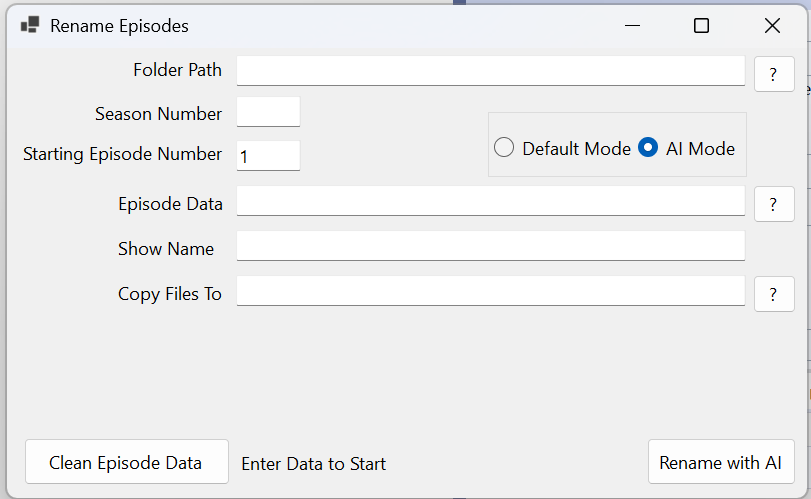
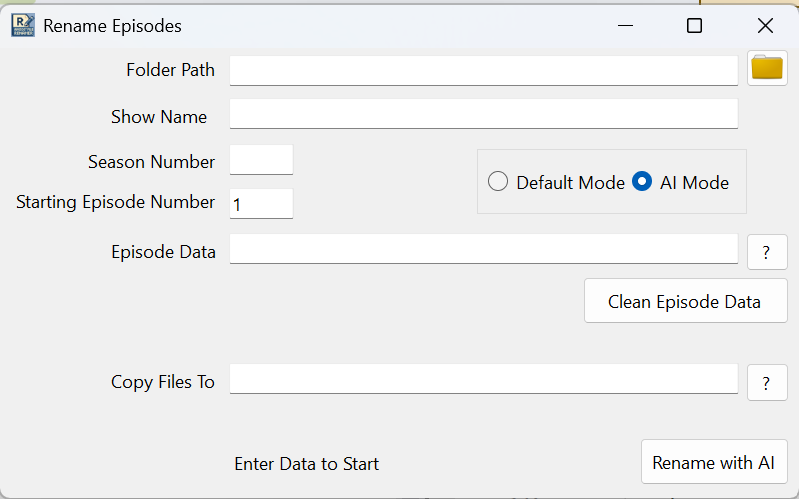
Add Undo Rename feature and improve AI mode
Enhanced the file renaming tool with an "Undo Rename" feature:
- Updated `FileRenamer.cs` to track full file paths and added `UndoLastRename` for reversing renames.
- Modified `Form1.Designer.cs` and `Form1.cs` to include a new "Undo Rename" button, initially hidden and shown after successful renames.
- Improved logging and error handling for rename and undo operations.

Introduced "AI Mode" for automatic episode title retrieval:
- Updated README.md with details and caveats for AI mode.
- Added screenshots (`renep-ai.png`, `renep-ai-undo.png`) to showcase the feature.

Other changes:
- Updated `.markdownlint.json` configuration.
- Improved UI and documentation for better usability.
- Added new screenshots (`renep-default-undo.png`) to reflect changes.

diff --git a/RenameEpisodeFiles/FileRenamer.cs b/RenameEpisodeFiles/FileRenamer.cs
@@ -7,7 +7,7 @@ using System.Text.RegularExpressions;
 
 namespace RenameEpisodeFiles
 {
-    public record FileRenameRecord(string OriginalFileName, string NewFileName, DateTime RenameTime);
+    public record FileRenameRecord(string OriginalFileName, string NewFileName, string OriginalFullPath, string NewFullPath, DateTime RenameTime);
 
     internal class FileRenamer
     {
@@ -59,7 +59,7 @@ namespace RenameEpisodeFiles
                 string newFilePath = Path.Combine(folderPath, newFileName);
 
                 File.Move(file.FullName, newFilePath);
-                renameHistory.Add(new FileRenameRecord(file.Name, newFileName, DateTime.Now));
+                renameHistory.Add(new FileRenameRecord(file.Name, newFileName, file.FullName, newFilePath, DateTime.Now));
                 lastEpisode = episodeIndex + 1;
             }
 
@@ -145,7 +145,7 @@ namespace RenameEpisodeFiles
                     try
                     {
                         File.Move(file.FullName, newFilePath);
-                        renameHistory.Add(new FileRenameRecord(file.Name, newFileName, DateTime.Now));
+                        renameHistory.Add(new FileRenameRecord(file.Name, newFileName, file.FullName, newFilePath, DateTime.Now));
                     }
                     catch (Exception ex)
                     {
@@ -163,6 +163,86 @@ namespace RenameEpisodeFiles
             if (renameHistory.Any())
             {
                 SaveRenameHistory(renameHistory);
+            }
+        }
+
+        public static bool UndoLastRename()
+        {
+            try
+            {
+                // Ensure history folder exists
+                if (!Directory.Exists(HistoryFolder))
+                {
+                    Program.Logger.LogInformation("No rename history found to undo");
+                    return false;
+                }
+
+                // Get the latest history file
+                var historyFiles = Directory.GetFiles(HistoryFolder, "rename_history_*.json")
+                    .OrderByDescending(f => f)
+                    .ToList();
+
+                if (!historyFiles.Any())
+                {
+                    Program.Logger.LogInformation("No rename history files found to undo");
+                    return false;
+                }
+
+                var latestHistoryFile = historyFiles.First();
+                var jsonString = File.ReadAllText(latestHistoryFile);
+                var renameHistory = JsonSerializer.Deserialize<List<FileRenameRecord>>(jsonString);
+
+                if (renameHistory == null || !renameHistory.Any())
+                {
+                    Program.Logger.LogInformation("Empty rename history in file");
+                    return false;
+                }
+
+                // Prepare reverse rename operations using full paths
+                var filesToRename = new List<FileInfo>();
+                var originalNames = new List<string>();
+                var originalPaths = new List<string>();
+
+                foreach (var record in renameHistory)
+                {
+                    if (File.Exists(record.NewFullPath))
+                    {
+                        filesToRename.Add(new FileInfo(record.NewFullPath));
+                        originalNames.Add(Path.GetFileName(record.OriginalFullPath));
+                        originalPaths.Add(record.OriginalFullPath);
+                    }
+                }
+
+                if (!filesToRename.Any())
+                {
+                    Program.Logger.LogInformation("No files found to undo rename");
+                    return false;
+                }
+
+                // Actually move files back to their original full paths
+                for (int i = 0; i < filesToRename.Count; i++)
+                {
+                    var file = filesToRename[i];
+                    var originalPath = originalPaths[i];
+                    try
+                    {
+                        File.Move(file.FullName, originalPath);
+                    }
+                    catch (Exception ex)
+                    {
+                        Program.Logger.LogError(ex, $"Error undoing rename for {file.FullName}");
+                    }
+                }
+
+                // Delete the history file after successful undo
+                File.Delete(latestHistoryFile);
+                Program.Logger.LogInformation($"Successfully undid renames from {latestHistoryFile}");
+                return true;
+            }
+            catch (Exception ex)
+            {
+                Program.Logger.LogError(ex, "Error while trying to undo rename");
+                return false;
             }
         }
 

diff --git a/RenameEpisodeFiles/Form1.cs b/RenameEpisodeFiles/Form1.cs
@@ -1,3 +1,4 @@
+using Microsoft.Extensions.Logging;
 using System.Windows.Forms;
 using static System.Windows.Forms.VisualStyles.VisualStyleElement;
 
@@ -21,6 +22,9 @@ namespace RenameEpisodeFiles
             {
                 ModeGroup.Visible = true;
             }
+            
+            // Initially hide the undo button
+            btnUndo.Visible = false;
         }
 
         private async void btnRename_ClickAsync(object sender, EventArgs e)
@@ -67,6 +71,9 @@ namespace RenameEpisodeFiles
 
                 int lastEpisode = FileRenamer.RenameEpisodes(folderPath, showName, seasonNumber, episodeNumber, dataPath);
 
+                // Show undo button after successful rename
+                btnUndo.Visible = true;
+
                 // copy the files over to the destination after the rename
                 // but only if the field is populated
                 if (!string.IsNullOrEmpty(txtCopyFilesTo.Text))
@@ -106,12 +113,40 @@ namespace RenameEpisodeFiles
 
                 btnRename.Enabled = false; // Disable button to prevent multiple clicks
                 progressRename.Visible = true; // Show progress bar
+                
                 // Call the AI renaming method
                 await FileRenamer.RenameEpisodesWithAI(folderPath, showName);
+                
                 progressRename.Visible = false; // Hide progress bar after operation
-                btnRename.Enabled = true; // Re-enable button after operation;
+                btnRename.Enabled = true; // Re-enable button after operation
+                btnUndo.Visible = true; // Show undo button after successful rename
             }
+        }
 
+        private void btnUndo_Click(object sender, EventArgs e)
+        {
+            lblErr.Text = "";
+            try
+            {
+                btnUndo.Enabled = false;
+                if (FileRenamer.UndoLastRename())
+                {
+                    btnUndo.Visible = false;
+                }
+                else
+                {
+                    lblErr.Text = "No rename operation to undo";
+                }
+            }
+            catch (Exception ex)
+            {
+                lblErr.Text = "Error while undoing rename";
+                Program.Logger.LogError(ex, "Error in undo operation");
+            }
+            finally
+            {
+                btnUndo.Enabled = true;
+            }
         }
 
         private void btnCleanEpisodeData_Click(object sender, EventArgs e)

diff --git a/RenameEpisodeFiles/Form1.Designer.cs b/RenameEpisodeFiles/Form1.Designer.cs
@@ -53,6 +53,7 @@
             radioModeAI = new RadioButton();
             radioModeDefault = new RadioButton();
             progressRename = new ProgressBar();
+            btnUndo = new Button();
             ModeGroup.SuspendLayout();
             SuspendLayout();
             // 
@@ -183,7 +184,6 @@
             btnFindFolder.Name = "btnFindFolder";
             btnFindFolder.Size = new Size(43, 38);
             btnFindFolder.TabIndex = 12;
-            btnFindFolder.Text = "?";
             btnFindFolder.UseVisualStyleBackColor = true;
             btnFindFolder.Click += btnFindFolder_Click;
             // 
@@ -274,12 +274,25 @@
             progressRename.TabIndex = 18;
             progressRename.Visible = false;
             // 
+            // btnUndo
+            // 
+            btnUndo.Location = new Point(24, 390);
+            btnUndo.Name = "btnUndo";
+            btnUndo.Size = new Size(132, 47);
+            btnUndo.TabIndex = 19;
+            btnUndo.Text = "Undo Rename";
+            btnUndo.TextAlign = ContentAlignment.MiddleLeft;
+            btnUndo.UseVisualStyleBackColor = true;
+            btnUndo.Visible = false;
+            btnUndo.Click += btnUndo_Click;
+            // 
             // Form1
             // 
             AllowDrop = true;
             AutoScaleDimensions = new SizeF(10F, 25F);
             AutoScaleMode = AutoScaleMode.Font;
             ClientSize = new Size(800, 450);
+            Controls.Add(btnUndo);
             Controls.Add(progressRename);
             Controls.Add(ModeGroup);
             Controls.Add(button1);
@@ -335,5 +348,6 @@
         private RadioButton radioModeDefault;
         private RadioButton radioModeAI;
         private ProgressBar progressRename;
+        private Button btnUndo;
     }
 }

diff --git a/README.md b/README.md
@@ -1,6 +1,6 @@
 # Ansos' Episode File Renamer
 
-This tools renames batches of files for a specific TV show, based on data from [TheTVDB.com](https://www.thetvdb.com/), including the episode title. 
+This tools renames batches of files for a specific TV show, based on data from [TheTVDB.com](https://www.thetvdb.com/), including the episode title.
 
 It is specifically designed for users of tools like Plex or Embi who are making backups of TV shows from DVDs or Blu-Rays.
 
@@ -20,20 +20,20 @@ It is specifically designed for users of tools like Plex or Embi who are making 
 
 ### Caveats
 
-- Paths should not be wrapped in quotes
+- Paths should **not** be wrapped in quotes
 - It assumes the Folder Path **ONLY** has episodes in it, so be aware of that
   - It orders the files by creation timestamp and does its thing
-- No real safety nets
-  - Renames cannot be automatically undone
-  - Overwrites any existing filenames
+- Overwrites any existing filenames
   
 ### Renaming
 
 - Click the 'Rename Files' button to fire it off
   - Files will be renamed in the format `<Show Name>.S<Season Number>E<Episode Number>.<Episode Title [from Episode Data]>.<Original File Extension>`
   - for example: `Star Trek - Deep Space Nine.S03E11.Past Tense, Part I.mkv`
+- The 'Undo Rename' button will revert the renames if a mistake was made. It will appear once you have renamed files.![Screenshot of Rename Episodes app with Undo Rename shown](renep-default-undo.png)
 
 ## AI Mode
+
 AI Mode is a experimental mode, hidden by default, that uses the season and episode number in a filename to automatically retrieve episode titles from theTVDB.com.
 ![Screenshot of Rename Episodes app in AI mode](renep-ai.png)
 
@@ -55,15 +55,14 @@ AI Mode is a experimental mode, hidden by default, that uses the season and epis
 - Folder Path - folder where the files are now. Use the '?' button to select from a dialog.
 - Show Name - The show name goes that will be used in the filename.
 
+### Caveats
+
+- Overwrites any existing filenames
+- The AI doesn't get the episode title 100% correct yet.
+
 ### Renaming
 
 - Click the 'Rename with AI' button to fire it off
   - Files will be renamed in the format `<Show Name>.S<Season Number>E<Episode Number>.<Episode Title [from Episode Data]>.<Original File Extension>`
   - for example: `Star Trek - Deep Space Nine.S03E11.Past Tense, Part I.mkv`
-
-### Caveats
-
-- No real safety nets
-  - Renames cannot be automatically undone
-  - Overwrites any existing filenames
-  - The AI doesn't get the episode title 100% correct yet.
+- The 'Undo Rename' button will revert the renames if a mistake was made. It will appear once you have renamed files.![Screenshot of Rename Episodes app with Undo Rename shown](renep-ai-undo.png)
